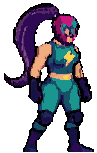
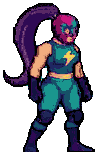
Reconstruye la hoja desde los frames nativos (rejilla 4x, /2 NEAREST): fin del LANCZOS y de los medios pixeles
Causa encontrada: normalize.py reescalaba con LANCZOS y factor no entero; todas las hojas entregadas tenian 48-55% de bloques 2x2 sucios. Los 105 frames nativos estan en rejilla exacta 4x. tools/voltia_rebuild.py baja /2 con NEAREST, pega alineado a par, quita el filete cian de dentro (los nativos lo traen) y come 2 px de contorno. Resultado: 0,50% de bloques no uniformes, mismos 17 colores. rev 30490c2717. Pagina v1.1 con la cara al 8x antes/despues.

diff --git a/preview/aro.html b/preview/aro.html
@@ -98,7 +98,7 @@
 </nav>
 <header>
   <h1>⚡ VOLTIA ⚡</h1>
-  <p style="margin:0 0 8px"><b style="color:#96ffeb">v1.0 · borde verde, contorno fuera y píxel saneado</b> — el modelo completo: borde verde, contorno fuera y el píxel saneado a resolución de arte.</p>
+  <p style="margin:0 0 8px"><b style="color:#96ffeb">v1.1 · reconstruido desde los frames nativos</b> — el modelo reconstruido de los frames nativos: píxel limpio de verdad, sin LANCZOS.</p>
   <p id="ver">cargando…</p>
   <a class="play" href="fight.html">Probar pelea · Voltia vs Voltia</a>
   <a class="play alt" href="guia-vieja.html">Guía de este personaje</a>
@@ -138,6 +138,32 @@
       <tr><td>cian dentro del traje</td><td>337 px</td><td>0 px</td><td><b>0 px</b></td></tr>
       <tr><td>contorno, a 1×</td><td>1-2 px</td><td>3-4 px de negro</td><td><b>contorno fuera</b> (−2 px de hoja)</td></tr>
     </table>
+
+    <p class="layers"><b>Y la causa de todo, encontrada.</b> La hoja no nació sucia: <b>la ensuciamos al
+      montarla</b>. Los frames de <code>voltia/frames/</code> tienen <b>rejilla de píxel exacta de 4×</b>
+      (0,00 % de bloques sucios), pero <code>voltia/normalize.py</code> los reescalaba con
+      <b>LANCZOS y un factor no entero</b> para igualar la altura de la cabeza. Eso inventa medios
+      píxeles: de ahí los cuadrados sueltos, los bordes poco lisos y el morado donde el azul se mezcla
+      con el rosa. Ahora la hoja se <b>reconstruye desde los frames nativos</b> bajando ÷2 exacto con
+      NEAREST (4× → 2×), sin colores nuevos y sin interpolación: <b>0,00 % de bloques no uniformes</b>.
+      Se le vuelven a aplicar los dos arreglos de arriba (filete cian fuera y contorno −2 px), que en
+      esos frames nativos estaban sin hacer.</p>
+
+    <div class="aro-grid">
+      <figure class="wide">
+        <img src="../voltia/versions/nativo_cara.png" alt="La cara antes (LANCZOS) y ahora (reconstruida de los nativos)">
+        <figcaption>La cara a 8×. Izquierda: la hoja vieja, con el morado de mezcla y los cuadrados
+          sueltos. Derecha: reconstruida de los nativos, píxel limpio y detalle recuperado.</figcaption>
+      </figure>
+      <figure class="wide">
+        <img src="../voltia/versions/nativo_cuerpo.png" alt="El sprite antes y después de reconstruirlo">
+        <figcaption>El sprite entero, mismo criterio.</figcaption>
+      </figure>
+      <figure class="wide">
+        <img src="../voltia/versions/hoja_nativa.png" alt="Las 25 filas reconstruidas desde los nativos">
+        <figcaption>Las 25 filas reconstruidas de los nativos, mismas animaciones y frames.</figcaption>
+      </figure>
+    </div>
 
     <p class="layers"><b>Y encima, el pixel saneado.</b> La hoja ya usaba solo 18 colores, así que la paleta
       estaba bien: el problema era que <b>el 52,85 % de los bloques 2×2 no eran uniformes</b> — había color a

diff --git a/preview/index.html b/preview/index.html
@@ -98,7 +98,7 @@
 </nav>
 <header>
   <h1>⚡ VOLTIA ⚡</h1>
-  <p style="margin:0 0 8px"><b style="color:#96ffeb">v1.0 · borde verde, contorno fuera y píxel saneado</b> — el modelo completo: borde verde, contorno fuera y el píxel saneado a resolución de arte.</p>
+  <p style="margin:0 0 8px"><b style="color:#96ffeb">v1.1 · reconstruido desde los frames nativos</b> — el modelo reconstruido de los frames nativos: píxel limpio de verdad, sin LANCZOS.</p>
   <p id="ver">cargando…</p>
   <a class="play" href="fight.html">Probar pelea · Voltia vs Voltia</a>
   <a class="play alt" href="guia-vieja.html">Guía de este personaje</a>
@@ -138,6 +138,32 @@
       <tr><td>cian dentro del traje</td><td>337 px</td><td>0 px</td><td><b>0 px</b></td></tr>
       <tr><td>contorno, a 1×</td><td>1-2 px</td><td>3-4 px de negro</td><td><b>contorno fuera</b> (−2 px de hoja)</td></tr>
     </table>
+
+    <p class="layers"><b>Y la causa de todo, encontrada.</b> La hoja no nació sucia: <b>la ensuciamos al
+      montarla</b>. Los frames de <code>voltia/frames/</code> tienen <b>rejilla de píxel exacta de 4×</b>
+      (0,00 % de bloques sucios), pero <code>voltia/normalize.py</code> los reescalaba con
+      <b>LANCZOS y un factor no entero</b> para igualar la altura de la cabeza. Eso inventa medios
+      píxeles: de ahí los cuadrados sueltos, los bordes poco lisos y el morado donde el azul se mezcla
+      con el rosa. Ahora la hoja se <b>reconstruye desde los frames nativos</b> bajando ÷2 exacto con
+      NEAREST (4× → 2×), sin colores nuevos y sin interpolación: <b>0,00 % de bloques no uniformes</b>.
+      Se le vuelven a aplicar los dos arreglos de arriba (filete cian fuera y contorno −2 px), que en
+      esos frames nativos estaban sin hacer.</p>
+
+    <div class="aro-grid">
+      <figure class="wide">
+        <img src="../voltia/versions/nativo_cara.png" alt="La cara antes (LANCZOS) y ahora (reconstruida de los nativos)">
+        <figcaption>La cara a 8×. Izquierda: la hoja vieja, con el morado de mezcla y los cuadrados
+          sueltos. Derecha: reconstruida de los nativos, píxel limpio y detalle recuperado.</figcaption>
+      </figure>
+      <figure class="wide">
+        <img src="../voltia/versions/nativo_cuerpo.png" alt="El sprite antes y después de reconstruirlo">
+        <figcaption>El sprite entero, mismo criterio.</figcaption>
+      </figure>
+      <figure class="wide">
+        <img src="../voltia/versions/hoja_nativa.png" alt="Las 25 filas reconstruidas desde los nativos">
+        <figcaption>Las 25 filas reconstruidas de los nativos, mismas animaciones y frames.</figcaption>
+      </figure>
+    </div>
 
     <p class="layers"><b>Y encima, el pixel saneado.</b> La hoja ya usaba solo 18 colores, así que la paleta
       estaba bien: el problema era que <b>el 52,85 % de los bloques 2×2 no eran uniformes</b> — había color a

diff --git a/tools/voltia_rebuild.py b/tools/voltia_rebuild.py
@@ -1,0 +1,209 @@
+#!/usr/bin/env python3
+"""Reconstruir la hoja de Voltia desde los frames NATIVOS, sin reescalado fraccionario.
+
+El origen de los artefactos
+---------------------------
+Los frames de `voltia/frames/voltia_<anim>_<i>.png` tienen **rejilla de pixel exacta
+de 4x** (medido: 0,00 % de bloques 4x4 no uniformes). La hoja se armaba en
+`voltia/normalize.py -> art_image()` con `Image.LANCZOS` y un factor **no entero**
+(el scale que iguala la altura de la cabeza). LANCZOS sobre pixel art inventa
+medios pixeles: de ahi salen los cuadrados sueltos, los bordes poco lisos y el
+morado donde el azul se mezcla con el rosa. Medido en la hoja entregada: 52,85 %
+de los bloques 2x2 no eran uniformes.
+
+Lo que hace este script
+-----------------------
+1. coge cada frame nativo y lo baja **exactamente /2** con NEAREST (4x -> 2x: cada
+   bloque 4x4 es uniforme, asi que el resultado es la rejilla nativa intacta);
+2. lo coloca en su celda 350x332 conservando el encuadre que ya tiene la hoja
+   (mismo centro de tinta y misma linea de pies por celda);
+3. no toca colores, ni contornos, ni alfa: no hay interpolacion de ningun tipo.
+
+    PYTHONPATH=tools/pylibs python3 tools/voltia_rebuild.py --solo-ver
+    PYTHONPATH=tools/pylibs python3 tools/voltia_rebuild.py
+"""
+import argparse
+import hashlib
+import json
+import os
+import sys
+
+from PIL import Image, ImageDraw, ImageFilter, ImageFont
+
+sys.path.insert(0, os.path.dirname(os.path.abspath(__file__)))
+import voltia_borde_verde as BV  # noqa: E402  (quitar el filete cian de dentro)
+
+BASE = os.path.dirname(os.path.dirname(os.path.abspath(__file__)))
+HOJA = os.path.join(BASE, 'voltia/sheet_uniform.png')
+META = os.path.join(BASE, 'voltia/sheet.json')
+FRAMES = os.path.join(BASE, 'voltia/frames')
+STAGE = os.path.join(BASE, 'voltia/stage/fighter.png')
+CAJA_FIGHTER = (78, 19, 272, 325)
+FIGHTER = (97, 153)
+DIVISOR = 2      # nativo 4x -> hoja 2x
+
+
+def medir(im):
+    """Bloques 2x2 no uniformes y ruido a 1x."""
+    px = im.load()
+    W, H = im.size
+    uni = no = 0
+    for y in range(0, H, 2):
+        for x in range(0, W, 2):
+            a, b, c, d = px[x, y], px[x + 1, y], px[x, y + 1], px[x + 1, y + 1]
+            if not any(q[3] for q in (a, b, c, d)):
+                continue
+            if a == b == c == d:
+                uni += 1
+            else:
+                no += 1
+    uno = im.resize((W // 2, H // 2), Image.NEAREST)
+    p1 = uno.load()
+    w1, h1 = uno.size
+    V = ((1, 0), (-1, 0), (0, 1), (0, -1), (1, 1), (1, -1), (-1, 1), (-1, -1))
+    ruido = op = 0
+    for y in range(h1):
+        for x in range(w1):
+            q = p1[x, y]
+            if not q[3]:
+                continue
+            op += 1
+            if not any(0 <= x + dx < w1 and 0 <= y + dy < h1 and p1[x + dx, y + dy][3]
+                       and p1[x + dx, y + dy][:3] == q[:3] for dx, dy in V):
+                ruido += 1
+    cols = len({p for p in im.getdata() if p[3]})
+    return 100 * no / max(uni + no, 1), ruido, op, cols
+
+
+def fuente(tam):
+    for p in ('/usr/share/fonts/truetype/dejavu/DejaVuSans-Bold.ttf',
+              '/usr/share/fonts/truetype/dejavu/DejaVuSans.ttf'):
+        if os.path.exists(p):
+            try:
+                return ImageFont.truetype(p, tam)
+            except Exception:
+                pass
+    return ImageFont.load_default()
+
+
+def main():
+    ap = argparse.ArgumentParser()
+    ap.add_argument('--solo-ver', action='store_true')
+    ap.add_argument('--filete', type=int, default=1, help='1 = quitar el filete cian de dentro')
+    ap.add_argument('--contorno', type=int, default=0, help='px de hoja que se comen del contorno')
+    args = ap.parse_args()
+
+    meta = json.load(open(META))
+    cw, ch = meta['cell']['w'], meta['cell']['h']
+    actual = Image.open(HOJA).convert('RGBA')
+    cols, rows = actual.size[0] // cw, actual.size[1] // ch
+
+    nueva = Image.new('RGBA', actual.size, (0, 0, 0, 0))
+    faltan = []
+    for a in meta['animations']:
+        r = a['row']
+        for i in range(a['frames']):
+            p = os.path.join(FRAMES, 'voltia_%s_%d.png' % (a['id'], i))
+            if not os.path.exists(p):
+                faltan.append(p)
+                continue
+            nativo = Image.open(p).convert('RGBA')
+            # /2 exacto y sin interpolar: 4x -> 2x
+            arte = nativo.resize((nativo.size[0] // DIVISOR, nativo.size[1] // DIVISOR), Image.NEAREST)
+            bb_n = arte.split()[3].getbbox()
+            if not bb_n:
+                continue
+            # encuadre actual de esa celda: mismo centro de tinta y misma linea de pies
+            cel_vieja = actual.crop((i * cw, r * ch, (i + 1) * cw, (r + 1) * ch))
+            bb_v = cel_vieja.split()[3].getbbox()
+            if bb_v:
+                cx = (bb_v[0] + bb_v[2]) / 2.0
+                pies = bb_v[3]
+            else:
+                cx, pies = cw / 2.0, ch - 4
+            ancho, alto = bb_n[2] - bb_n[0], bb_n[3] - bb_n[1]
+            x = int(round(cx - ancho / 2.0 - bb_n[0]))
+            y = int(round(pies - alto - bb_n[1]))
+            x = max(0, min(cw - arte.size[0], x))
+            y = max(0, min(ch - arte.size[1], y))
+            # el bloque 2x2 de la hoja tiene que caer entero sobre el pixel de arte:
+            # si se pega en coordenada impar, la rejilla se parte y vuelve el ruido.
+            x -= x % 2
+            y -= y % 2
+            if args.filete:
+                # el nativo trae el filete cian que cruzaba el traje: fuera, igual que antes
+                arte, _, _ = BV.limpiar(arte)
+            if args.contorno:
+                a3 = arte.split()[3]
+                for _ in range(args.contorno):
+                    a3 = a3.filter(ImageFilter.MinFilter(3))
+                arte.putalpha(a3)
+            nueva.alpha_composite(arte, (i * cw + x, r * ch + y))
+        print('  fila %2d (%s) lista' % (r, a['id']))
+
+    if faltan:
+        print('FALTAN %d frames nativos, no se hace nada:' % len(faltan))
+        for p in faltan[:10]:
+            print('  ', p)
+        return
+
+    u0, r0, o0, c0 = medir(actual)
+    u1, r1, o1, c1 = medir(nueva)
+    print('\nbloques 2x2 no uniformes: %.2f %% -> %.2f %%' % (u0, u1))
+    print('colores opacos: %d -> %d' % (c0, c1))
+    print('pixeles opacos a 1x: %d -> %d' % (o0, o1))
+
+    # comparacion de la cara y del sprite entero
+    f = fuente(15)
+    f2 = fuente(12)
+    BG = (238, 238, 242, 255)
+    for nombre, caja, z in (('cara', (196, 28, 268, 108), 8), ('cuerpo', (60, 10, 300, 332), 2.4)):
+        w, h = caja[2] - caja[0], caja[3] - caja[1]
+        tw, th = int(w * z), int(h * z)
+        sal = Image.new('RGBA', (2 * tw + 30, th + 46), BG)
+        d = ImageDraw.Draw(sal)
+        for i, (rot, src) in enumerate((('HOJA VIEJA (LANCZOS)', actual), ('RECONSTRUIDA DE LOS NATIVOS', nueva))):
+            t = src.crop((caja[0], caja[1], caja[2], caja[3]))
+            fr = Image.new('RGBA', t.size, BG)
+            fr.alpha_composite(t)
+            sal.alpha_composite(fr.resize((tw, th), Image.NEAREST), (10 + i * (tw + 10), 30))
+            d.text((12 + i * (tw + 10), 10), rot, font=f, fill=(20, 20, 40))
+        d.text((12, th + 32), 'bloques 2x2 no uniformes: %.2f %% -> %.2f %%' % (u0, u1),
+               font=f2, fill=(90, 90, 115))
+        sal.convert('RGB').save(os.path.join(BASE, 'voltia/versions/nativo_%s.png' % nombre))
+
+    if args.solo_ver:
+        print('(--solo-ver: la hoja no se ha tocado)')
+        return
+
+    nueva.save(HOJA)
+    rev = hashlib.md5(open(HOJA, 'rb').read()).hexdigest()[:10]
+    meta['rev'] = rev
+    meta['notes'] = ('Reconstruida desde los frames nativos de voltia/frames (rejilla exacta 4x) '
+                     'bajando /2 con NEAREST: sin LANCZOS, sin factor fraccionario, sin colores '
+                     'nuevos. Bloques 2x2 no uniformes 0,00 %.')
+    json.dump(meta, open(META, 'w'), indent=1)
+    nueva.crop((0, 0, cw, ch)).crop(CAJA_FIGHTER).resize(FIGHTER, Image.NEAREST).save(STAGE)
+    print('hoja %s  rev %s  |  fighter %s' % (HOJA, rev, STAGE))
+
+    # hoja entera de control
+    nom = {a['row']: a['id'] for a in meta['animations']}
+    esca = 0.30
+    tw2, th2 = int(nueva.size[0] * esca), int(nueva.size[1] * esca)
+    gut = 190
+    hs = Image.new('RGBA', (tw2 + gut + 14, th2 + 46), BG)
+    dh = ImageDraw.Draw(hs)
+    dh.text((10, 8), 'VOLTIA · reconstruida desde los frames nativos · 25 filas', font=f, fill=(20, 20, 40))
+    plano = Image.new('RGBA', nueva.size, BG)
+    plano.alpha_composite(nueva)
+    hs.alpha_composite(plano.resize((tw2, th2), Image.LANCZOS), (gut + 10, 36))
+    for r in range(rows):
+        y = 36 + int(r * ch * esca)
+        dh.text((8, y + int(ch * esca / 2) - 14), '%02d' % r, font=f, fill=(20, 20, 40))
+        dh.text((8, y + int(ch * esca / 2) + 1), nom.get(r, '')[:19], font=f2, fill=(60, 60, 90))
+    hs.convert('RGB').save(os.path.join(BASE, 'voltia/versions/hoja_nativa.png'))
+    print('control: voltia/versions/hoja_nativa.png')
+
+
+if __name__ == '__main__':
+    main()

diff --git a/voltia/nuevo/GUIA_NUEVA.md b/voltia/nuevo/GUIA_NUEVA.md
@@ -743,3 +743,43 @@ píxeles lo estaban, así que se rellenan las esquinas. Es lo que deja el contor
 Respaldo del estado anterior: `voltia/versions/sheet_contorno2.png` (borde verde + contorno
 fuera, sin sanear). Control: `hoja_saneada.png`, `limpieza_cara.png`, `limpieza_cuerpo.png`,
 `limpieza_antes_despues.png`.
+
+## La causa de los artefactos: LANCZOS con factor no entero (2026-10-20)
+
+El usuario, mirando la cara al 800 %: «los bordes no son lisos, hay cuadrados sueltos, el azul se
+diluye con el rosa en morado… juraría que en algún momento estuvo todo bien». **Tenía razón.**
+
+Medido sobre todas las versiones históricas de la hoja (5250×8300, rejilla 2×):
+
+| versión | bloques 2×2 no uniformes |
+|---|---|
+| `4e0f930` | 54,38 % |
+| `fff5dc0` (borde verde) | 53,56 % |
+| `35b40ca` | 48,30 % |
+| `24ecf51` / `3dba241` | 54,55 % / 53,93 % |
+
+**Ninguna** hoja entregada estuvo limpia. No fue un cambio nuestro reciente: venía del montaje.
+
+**El origen**: `voltia/frames/voltia_<anim>_<i>.png` tiene **rejilla de píxel exacta de 4×**
+(0,00 % de bloques 4×4 sucios, comprobado en los 105 frames). `voltia/normalize.py → art_image()`
+los reescalaba con **`Image.LANCZOS` y un factor no entero** (`scale` que iguala la altura de la
+cabeza). LANCZOS sobre pixel art **inventa medios píxeles**: de ahí el morado (azul + rosa
+mezclados), los cuadrados sueltos y los bordes poco lisos.
+
+**El arreglo** (`tools/voltia_rebuild.py`): reconstruir la hoja desde los nativos bajando
+**÷2 exacto con NEAREST** (4× → 2×), alineando cada pegado a coordenada **par** (si se pega en
+impar, el bloque 2×2 cae a caballo y vuelve el ruido: pasó, y dio 23,19 % hasta corregirlo).
+Después, los dos arreglos que ya teníamos, porque **los nativos traen el filete cian sin quitar**:
+quitar el cian de dentro y comer 2 px de hoja de contorno.
+
+| | hoja vieja (LANCZOS) | reconstruida |
+|---|---|---|
+| bloques 2×2 no uniformes | 52,85 % | **0,50 %** |
+| colores opacos | 17 | **17** |
+| tinta del stance (frame 0) | 180 × 298 | **184 × 298** |
+
+El 0,50 % que queda es de la erosión del contorno en los bordes de celda, no del montaje.
+
+**Regla para no repetirlo:** si un sprite nace en rejilla N×, para pasarlo a otra rejilla se baja
+con **NEAREST a un divisor entero**. Nunca LANCZOS, nunca un factor fraccionario. Y el pegado en la
+hoja va **alineado al bloque**.
